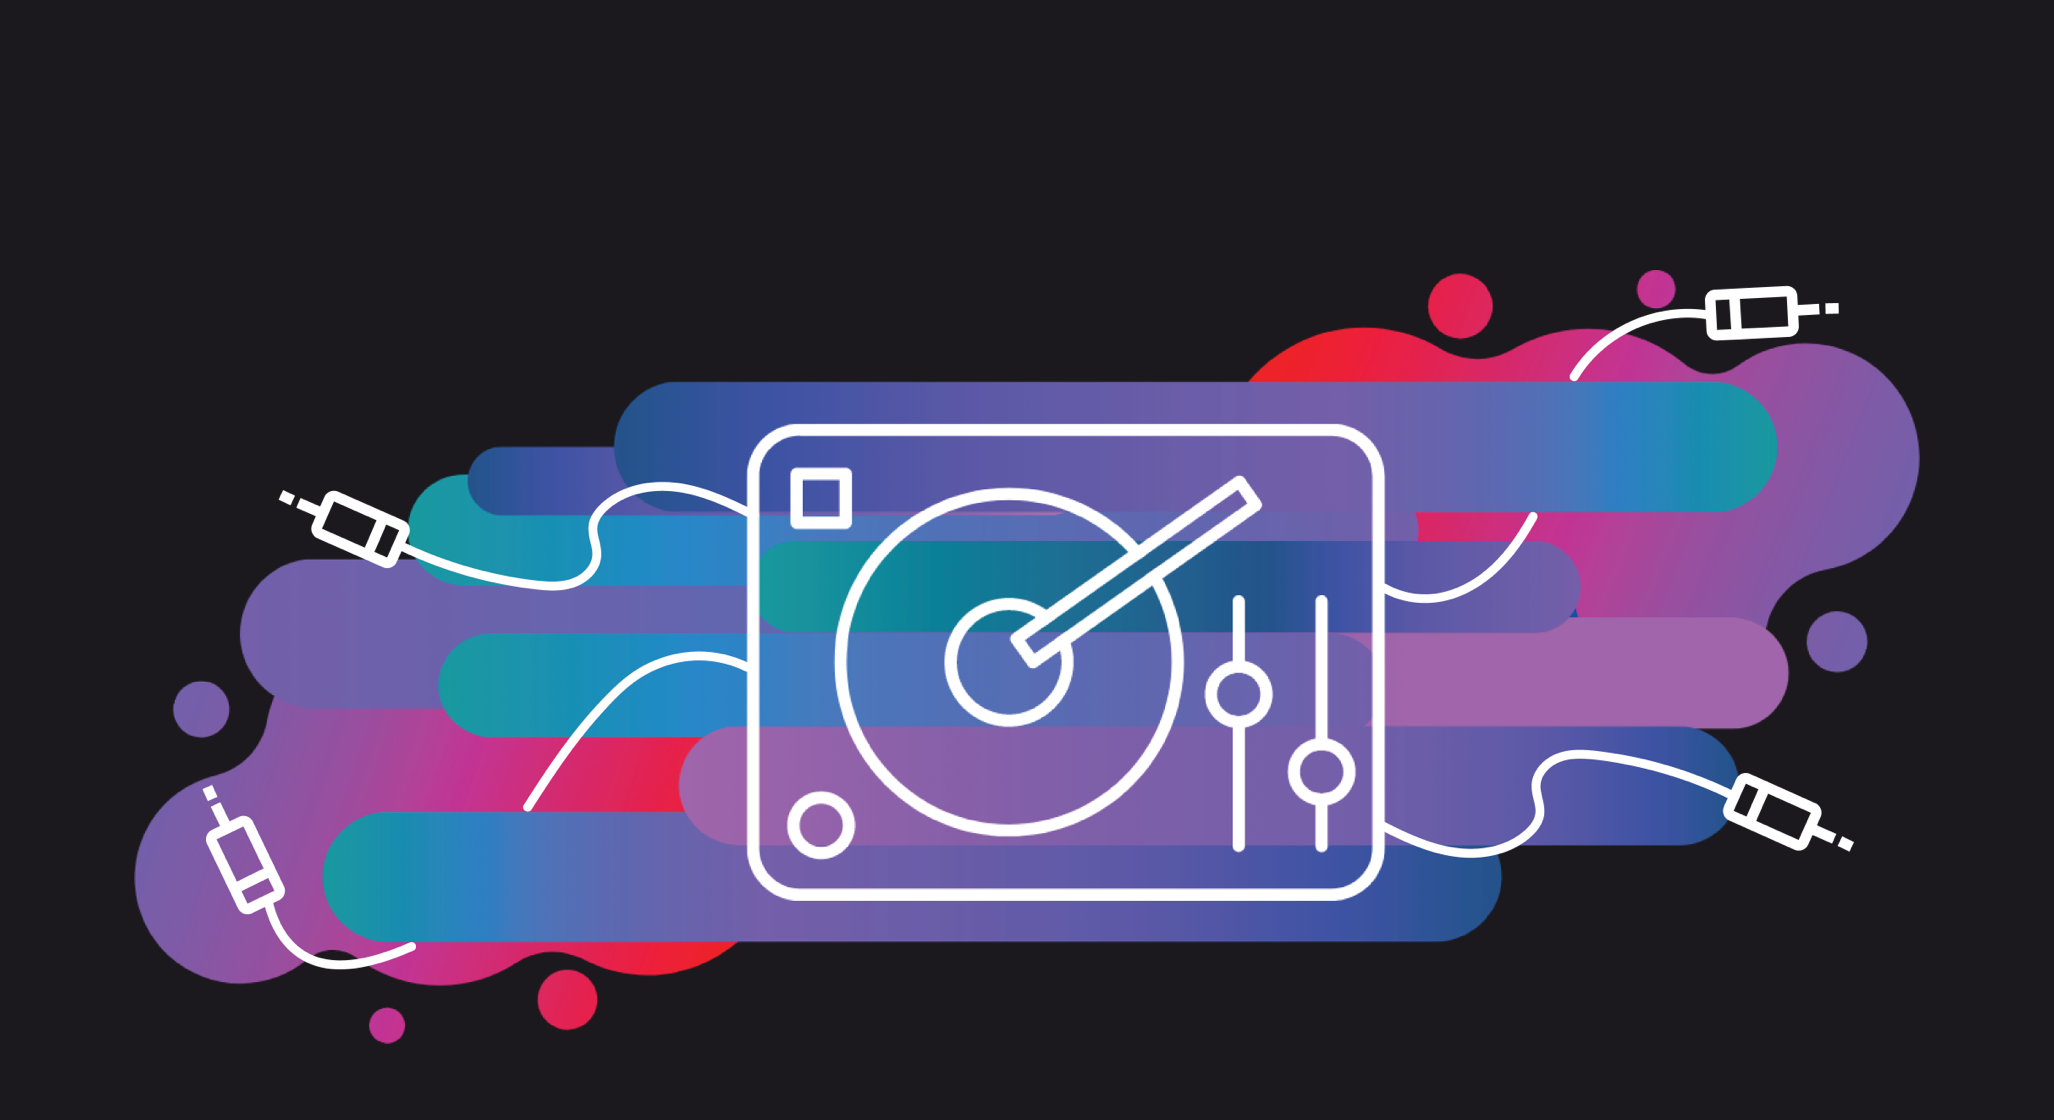
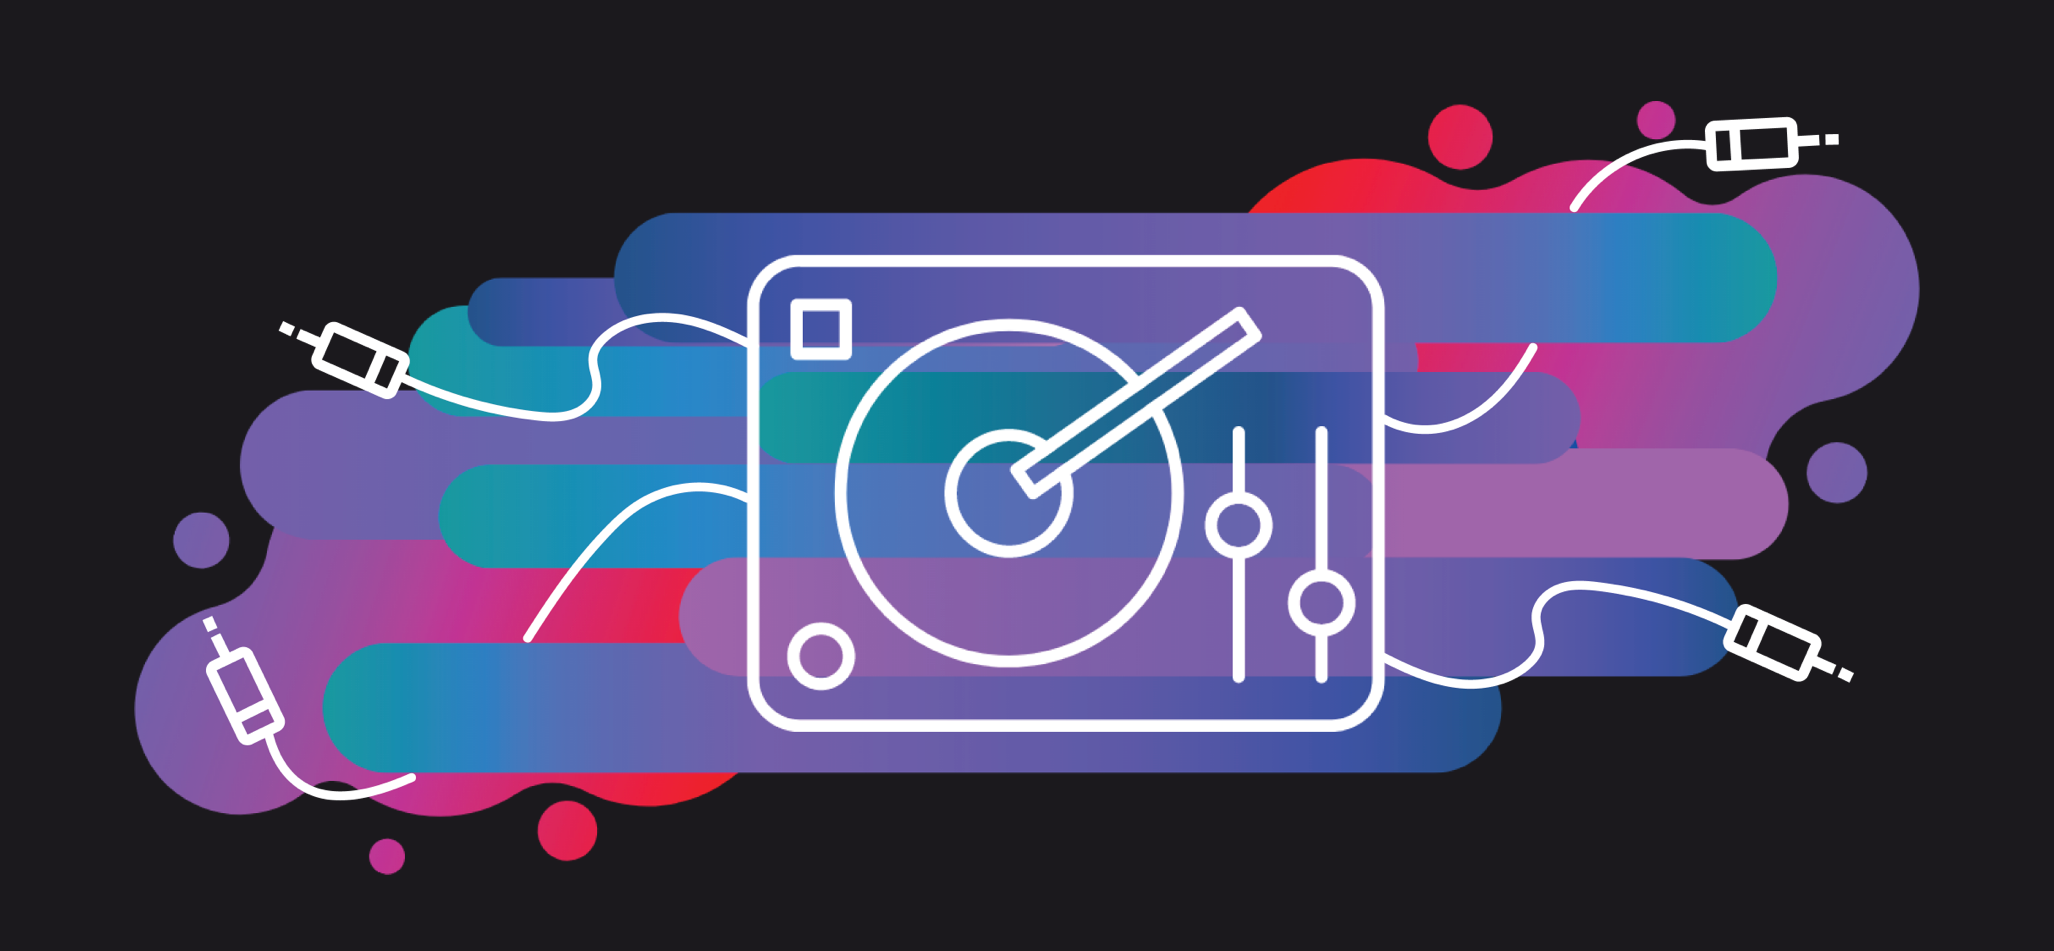
fixed contact

diff --git a/app/src/components/Contact.jsx b/app/src/components/Contact.jsx
@@ -5,6 +5,7 @@ import { useState } from 'react';
 import popupImage from '../assets/ContactPopUp.png';
 import Axios from "axios";
 import { db } from "../firestore.js";
+import cimg from '../assets/contact-darkbg.png';
 
 const useStyles = makeStyles(() => ({
     paper: {
@@ -78,6 +79,13 @@ const useStyles = makeStyles(() => ({
         whiteSpace: `nowrap`,
         minWidth: `22vw`,
         width: `fit-content`
+    },
+    cimg: {
+        height: '60%'
+    },
+    img: {
+        width: '100%',
+        height: 'auto'
     }
 }));
 
@@ -337,6 +345,11 @@ export default function Contact(props) {
                             <Typography align="center" variant="h6"> Request Beta Access </Typography>
                         </Button>
                     </Typography>
+                </Grid>
+                <Grid item container justify="center">
+                    <Grid item sm={8} className={classes.cimg}>
+                        <img className={classes.img} src={cimg} />
+                    </Grid>
                 </Grid>
             </Grid>
             <Modal

diff --git a/app/src/styles/Contact.css b/app/src/styles/Contact.css
@@ -1,10 +1,11 @@
 .contactWrapper {
-    height: 85vh;
+    height: 75vh;
     width: 100vw;
-    background-image: url('../assets/contact-darkbg.png');
+    background-color: rgb(27,25,28);
+    /* background-image: url('../assets/contact-darkbg.png');
     background-size: 100% 100%;
     background-repeat: no-repeat;
-    overflow: hidden;
+    overflow: hidden; */
 }
 .contactHeader {
     margin-top: 3vh !important;
